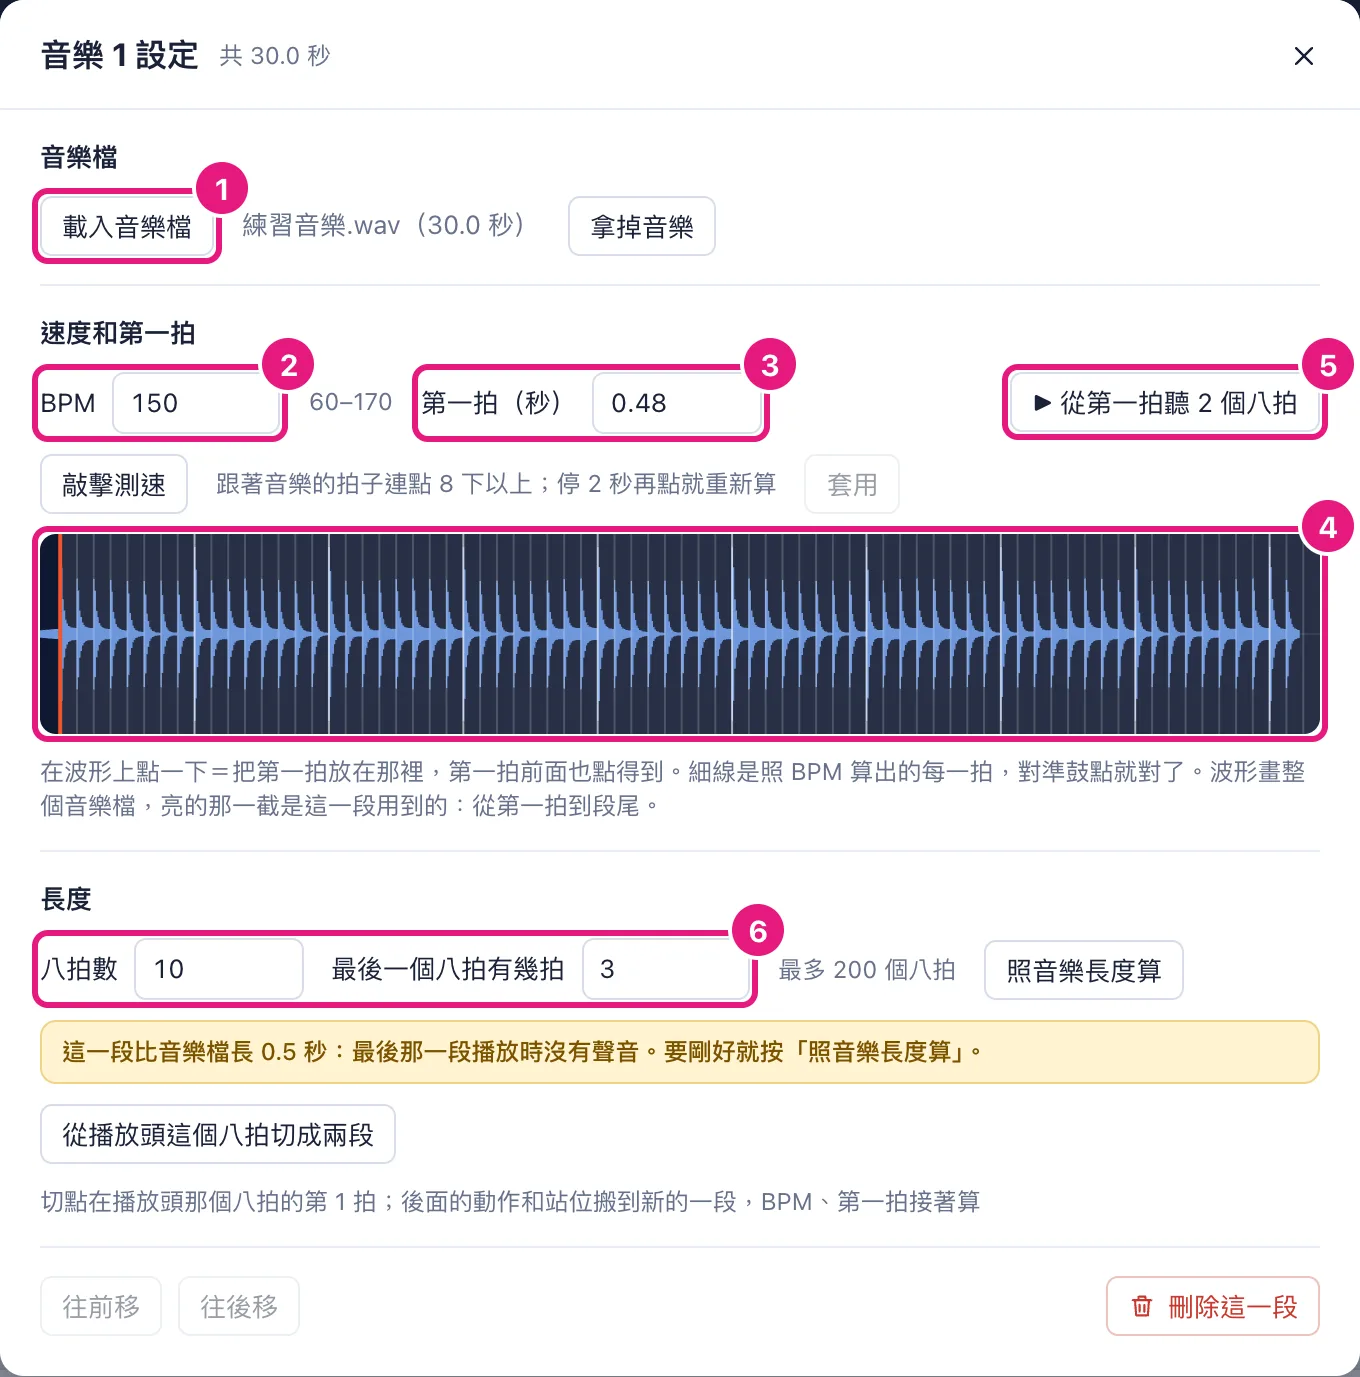
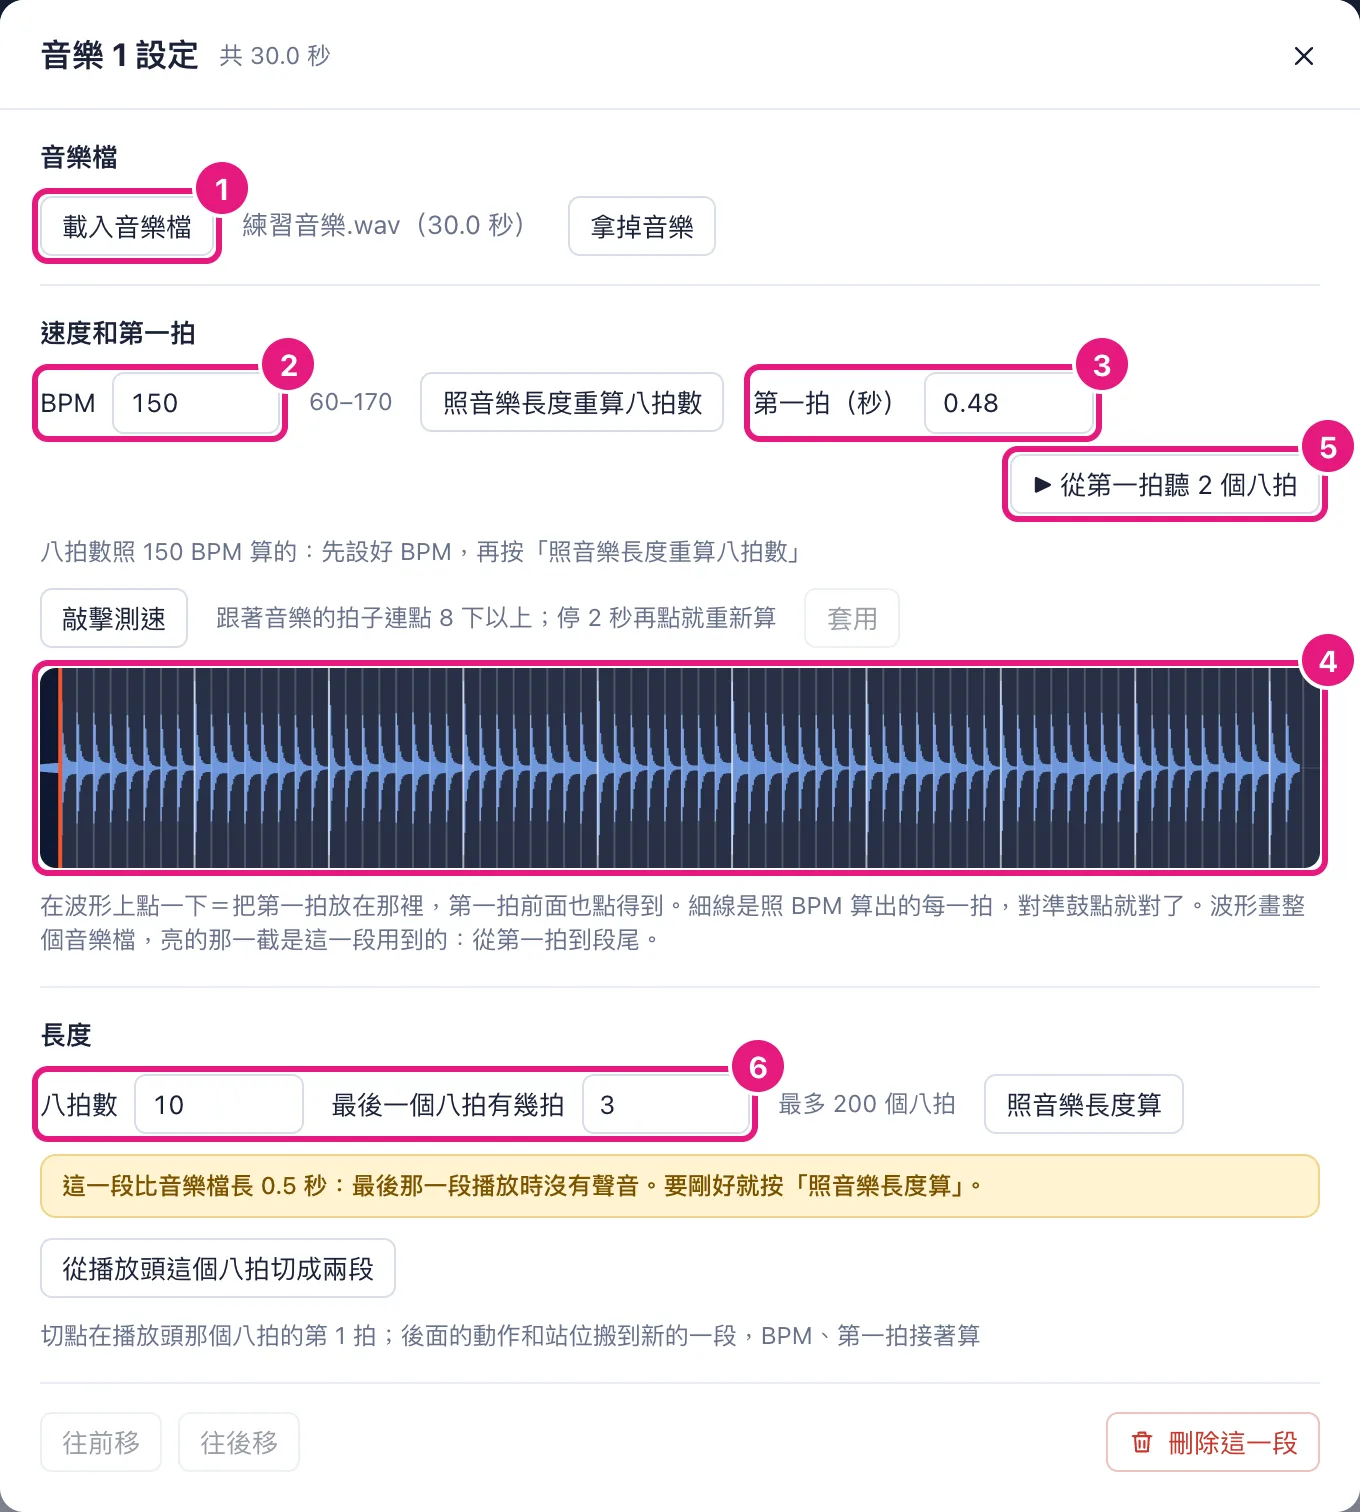
第一次載入音樂後，段設定寫「八拍數照 150 BPM 算的：先設好 BPM，再按「照音樂長度重算八拍數」」，重算鈕也直接出現（#233）

diff --git a/src/routes/guide/+page.svelte b/src/routes/guide/+page.svelte
@@ -512,7 +512,7 @@
 				</figure>
 				<ol class="steps">
 					<li><b>打開段設定：</b>點段列上那一段。</li>
-					<li><b>載入音樂檔：</b>按「載入音樂檔」，選 mp3、m4a 或 wav。載入後會畫出波形：畫的是整個音樂檔，這一段用到的那一截（從第一拍到段尾）底色比較亮。這一段第一次載入音樂時，長度會自動照音樂長度算好。音樂檔壞了、讀不出來時，寫「音樂檔壞了，請重新選檔」。不要這個音樂了，按旁邊的「拿掉音樂」：段還在，長度、動作、站位都不變，只是沒有音樂檔，播放時只剩節拍器；可以復原。</li>
+					<li><b>載入音樂檔：</b>按「載入音樂檔」，選 mp3、m4a 或 wav。載入後會畫出波形：畫的是整個音樂檔，這一段用到的那一截（從第一拍到段尾）底色比較亮。這一段第一次載入音樂時，長度會照音樂長度和當時的 BPM 自動算好；BPM 還沒設好的話，先設 BPM 再按「照音樂長度重算八拍數」。音樂檔壞了、讀不出來時，寫「音樂檔壞了，請重新選檔」。不要這個音樂了，按旁邊的「拿掉音樂」：段還在，長度、動作、站位都不變，只是沒有音樂檔，播放時只剩節拍器；可以復原。</li>
 					<li><b>填 BPM：</b>在「速度和第一拍」那一區的「BPM」打數字。超出範圍會被擋下：框退回原本的數字，下面寫「「BPM」退回原本的值：BPM 要在 60 到 170 之間」。<b>改 BPM 不會自動改八拍數</b>：八拍數一樣，秒數跟著變。有音樂檔時，改了以後 BPM 旁邊出現「照音樂長度重算八拍數」，要照新的 BPM 重算長度就按它；段因此變短時，跟自己把段縮短一樣（見<a href="#把段縮短">把段縮短</a>），先列出會裁短、刪掉的東西問你。</li>
 					<li><b>不知道 BPM：</b>放音樂，跟著拍子按「敲擊測速」，連點 8 下以上，旁邊寫出「約 150 BPM」；按「套用 150 BPM」就填進這一段。點歪一兩下沒關係，會被去掉；停 2 秒以上再點就重新算。算出來的是整數，越後面越偏再自己微調。算出來超出 60 到 170 時，旁邊寫「超出 60–170，不能套用」，「套用」按不下去。</li>
 					<li><b>對第一拍：</b>在波形上點你開始數「1」的那個鼓點。橘紅粗線就是第一拍，後面的細線是照 BPM 算出來的每一拍，比較亮的是每個八拍的開頭。<b>細線一直對準鼓點，BPM 和第一拍就都對了</b>；越後面越偏，就是 BPM 不對。點錯晚了，點第一拍前面的鼓點就能往前移。也可以直接在「第一拍（秒）」打數字。</li>

diff --git a/src/lib/components/SegmentSettings.svelte b/src/lib/components/SegmentSettings.svelte
@@ -172,6 +172,9 @@
 
 	/** 打開段設定時的 BPM：改了以後（而且有音樂檔）BPM 旁邊才出現「照音樂長度重算八拍數」（改 BPM 不自動改八拍數）。 */
 	const openedBpm = untrack(() => music?.bpm);
+	/** 打開時還沒有音樂、這次才第一次載入：八拍數是照那時的 BPM 自動算的，提醒先設好 BPM 再重算（不偵測 BPM）。 */
+	const openedAudioId = untrack(() => music?.audioId);
+	const firstLoaded = $derived(openedAudioId === null && !!music?.audioId && !!audio);
 
 	function fitToAudio() {
 		const lengths = editor.music.lengths;
@@ -235,7 +238,7 @@
 						<input type="text" inputmode="decimal" value={music.bpm} onchange={(e) => updateField(e.currentTarget, 'BPM', 'bpm', () => music?.bpm)} />
 					</label>
 					<span class="hint">{MIN_BPM}–{MAX_BPM}</span>
-					{#if music.bpm !== openedBpm && audio}
+					{#if (music.bpm !== openedBpm || firstLoaded) && audio}
 						<button type="button" onclick={fitToAudio}>照音樂長度重算八拍數</button>
 					{/if}
 					<label class="inline">
@@ -252,6 +255,9 @@
 						>{playback.previewing ? '■ 停止試聽' : '▶ 從第一拍聽 2 個八拍'}</button
 					>
 				</div>
+				{#if firstLoaded}
+					<p class="hint">八拍數照 {music.bpm} BPM 算的：先設好 BPM，再按「照音樂長度重算八拍數」</p>
+				{/if}
 				<div class="row">
 					<button type="button" onclick={tap}>敲擊測速</button>
 					<span class="hint" aria-live="polite">

diff --git a/src/routes/segment-settings.svelte.test.ts b/src/routes/segment-settings.svelte.test.ts
@@ -159,6 +159,18 @@ describe('段設定的拿掉音樂、重算八拍數、測速範圍（#230）', 
 		expect(engine.clips.map((c) => c.audioId)).toEqual(['a1']);
 	});
 
+	it('載入音樂後說八拍數是照現在的 BPM 算的，BPM 不對先改 BPM 再重算，不讓人以為 150 是偵測出來的（N57）', async () => {
+		await open(oneMusic(), 30);
+		const dialog = await settings('音樂 1');
+		const file = new File([new Uint8Array([1])], '主歌.mp3', { type: 'audio/mpeg' });
+		await fireEvent.change(dialog.getByLabelText('載入音樂檔'), { target: { files: [file] } });
+		await vi.waitFor(() => expect(field(dialog, '八拍數').value).toBe('10'));
+		expect(dialog.getByText(/八拍數照 150 BPM 算的/).textContent).toBe(
+			'八拍數照 150 BPM 算的：先設好 BPM，再按「照音樂長度重算八拍數」'
+		);
+		expect(dialog.getByRole('button', { name: '照音樂長度重算八拍數' })).toBeTruthy();
+	});
+
 	it('改了 BPM，旁邊才出現「照音樂長度重算八拍數」；改 BPM 本身不動八拍數', async () => {
 		await open(flowOf(loadSegmentAudio(oneMusic(), 's1', '歌.mp3')), 30, true);
 		const dialog = await settings('音樂 1');
